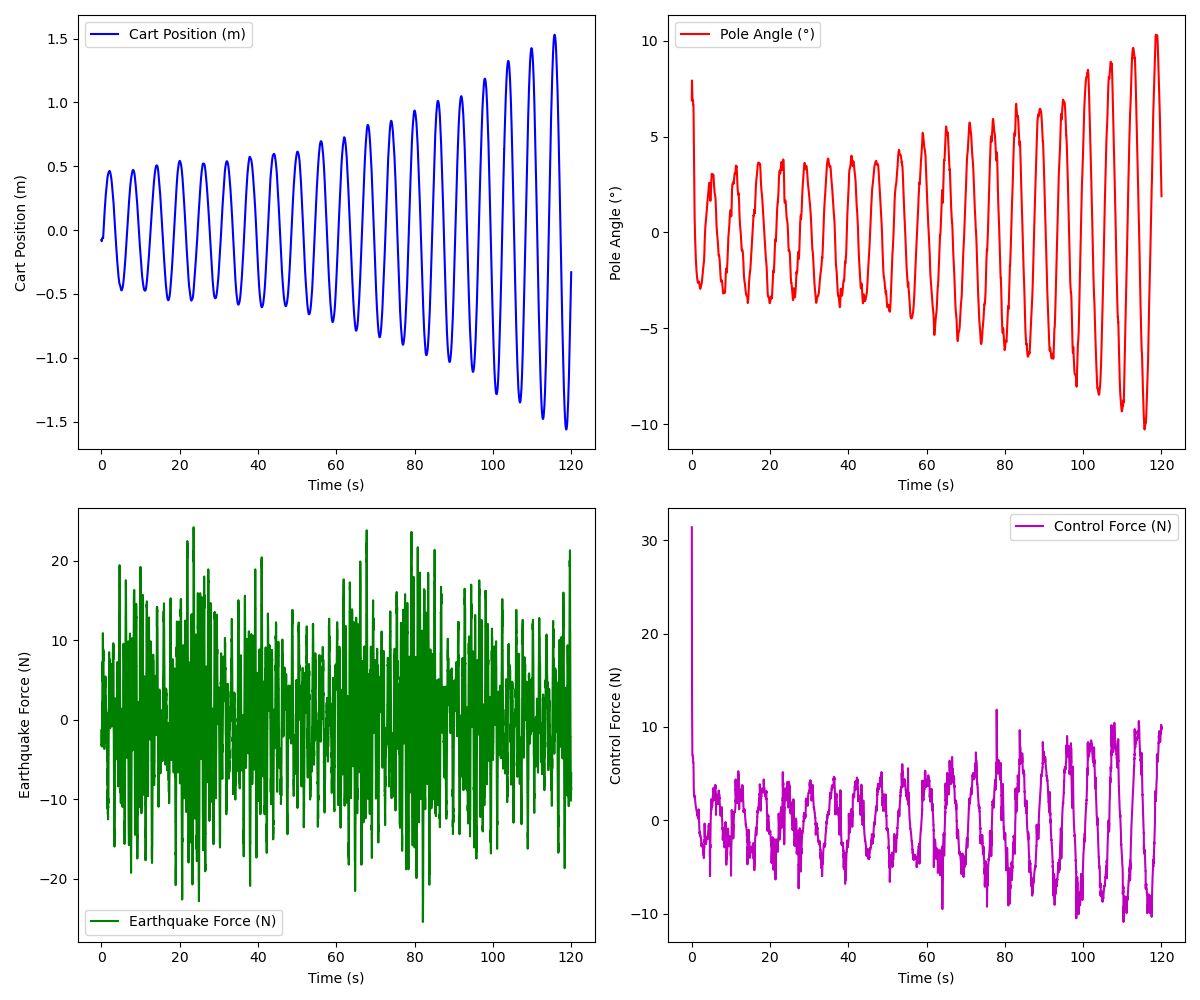
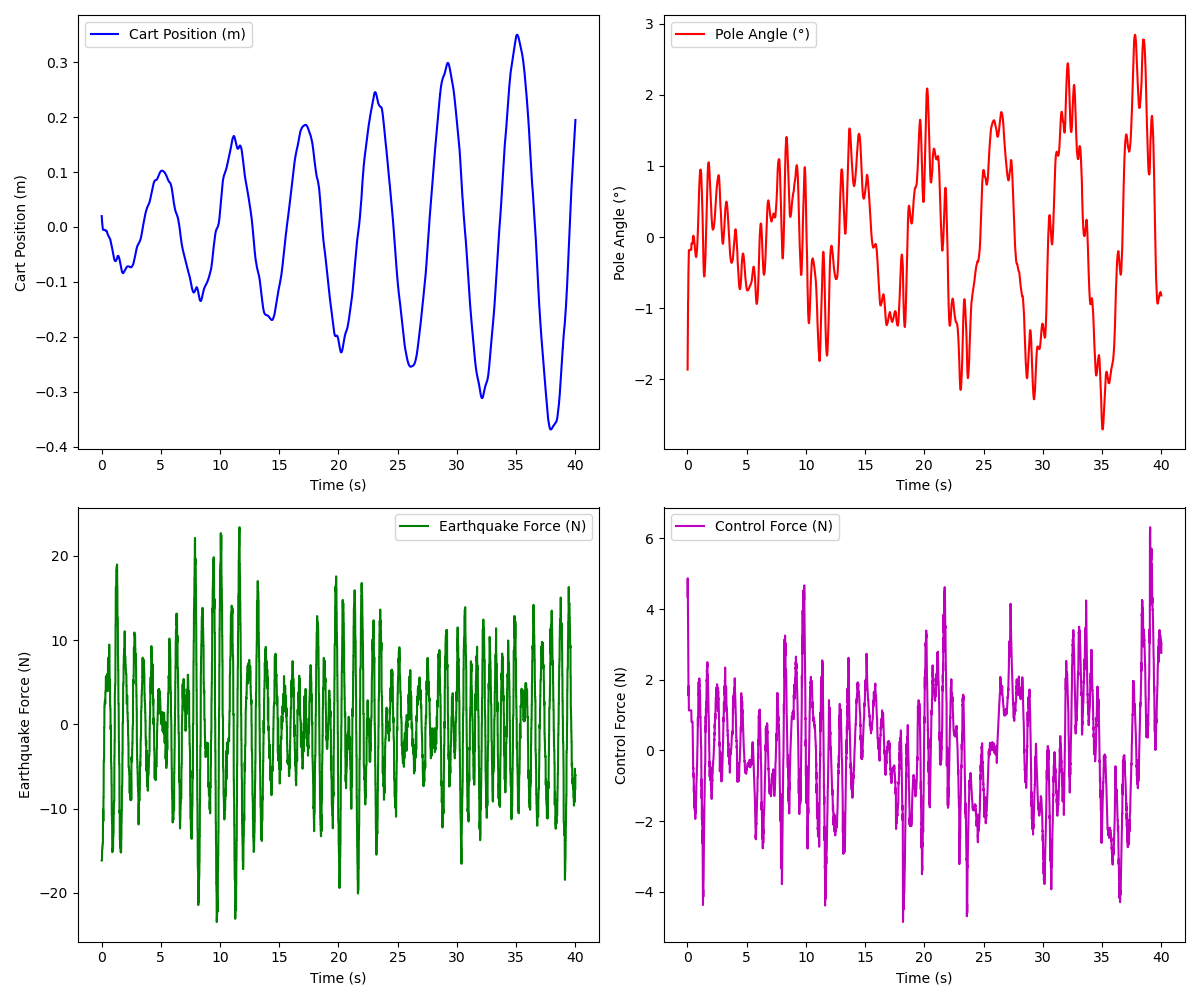
Update results in media/

diff --git a/assignments/cart_pole_optimal_control/cart_pole_optimal_control/lqr_controller.py b/assignments/cart_pole_optimal_control/cart_pole_optimal_control/lqr_controller.py
@@ -35,8 +35,8 @@ class CartPoleLQRController(Node):
         ])
         
         # LQR cost matrices
-        self.Q = np.diag([10.0, 1.0, 100.0, 1.0])  # State cost
-        self.R = np.array([[1.0]])  # Control cost
+        self.Q = np.diag([1.0, 1.0, 10.0, 10.0])  # State cost
+        self.R = np.array([[0.01]])  # Control cost
         
         # Compute LQR gain matrix
         self.K = self.compute_lqr_gain()
@@ -68,7 +68,7 @@ class CartPoleLQRController(Node):
         # Control loop timer
         self.timer = self.create_timer(0.01, self.control_loop)
 
-        self.MAX_SIMULATION_TIME = 60.0  # Set to desired duration
+        self.MAX_SIMULATION_TIME = 40.0  # Set to desired duration
         
         self.get_logger().info('Cart-Pole LQR Controller initialized')
     
